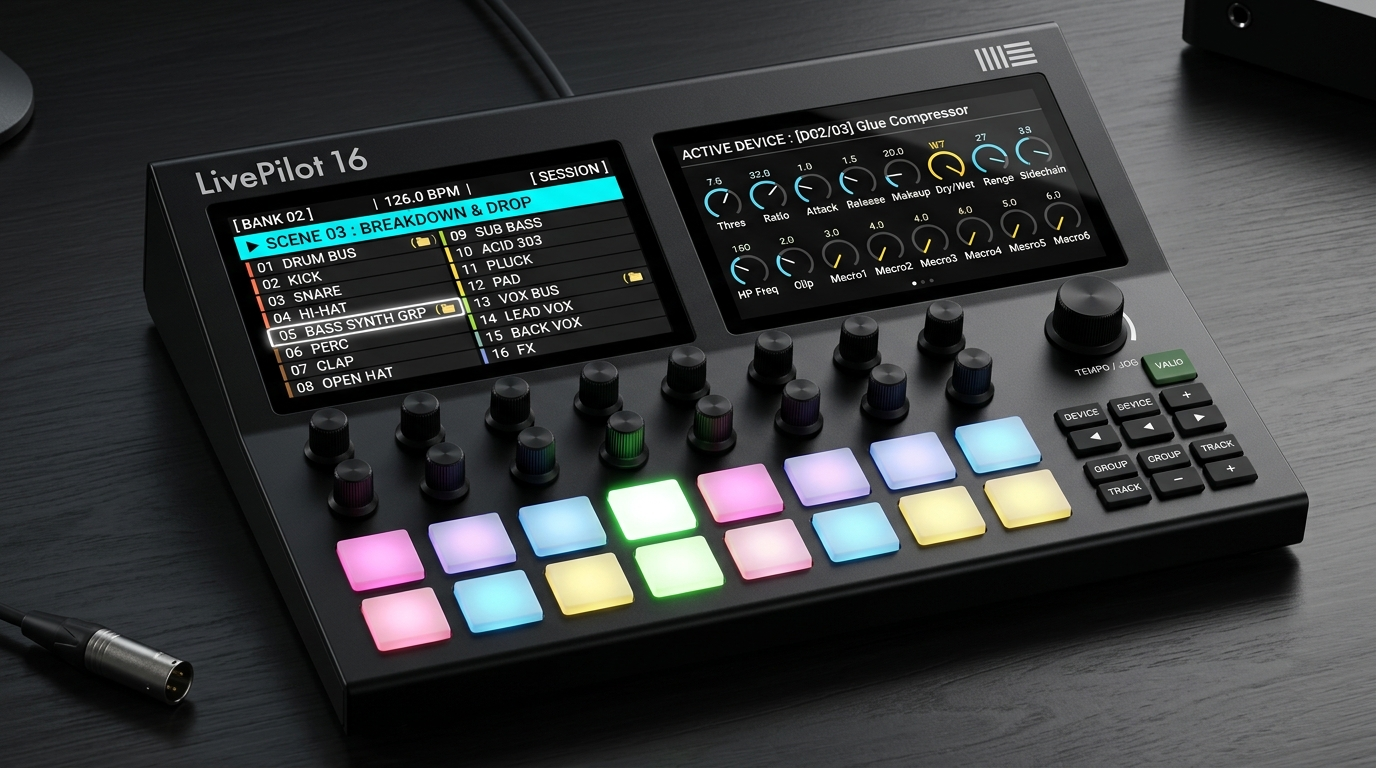
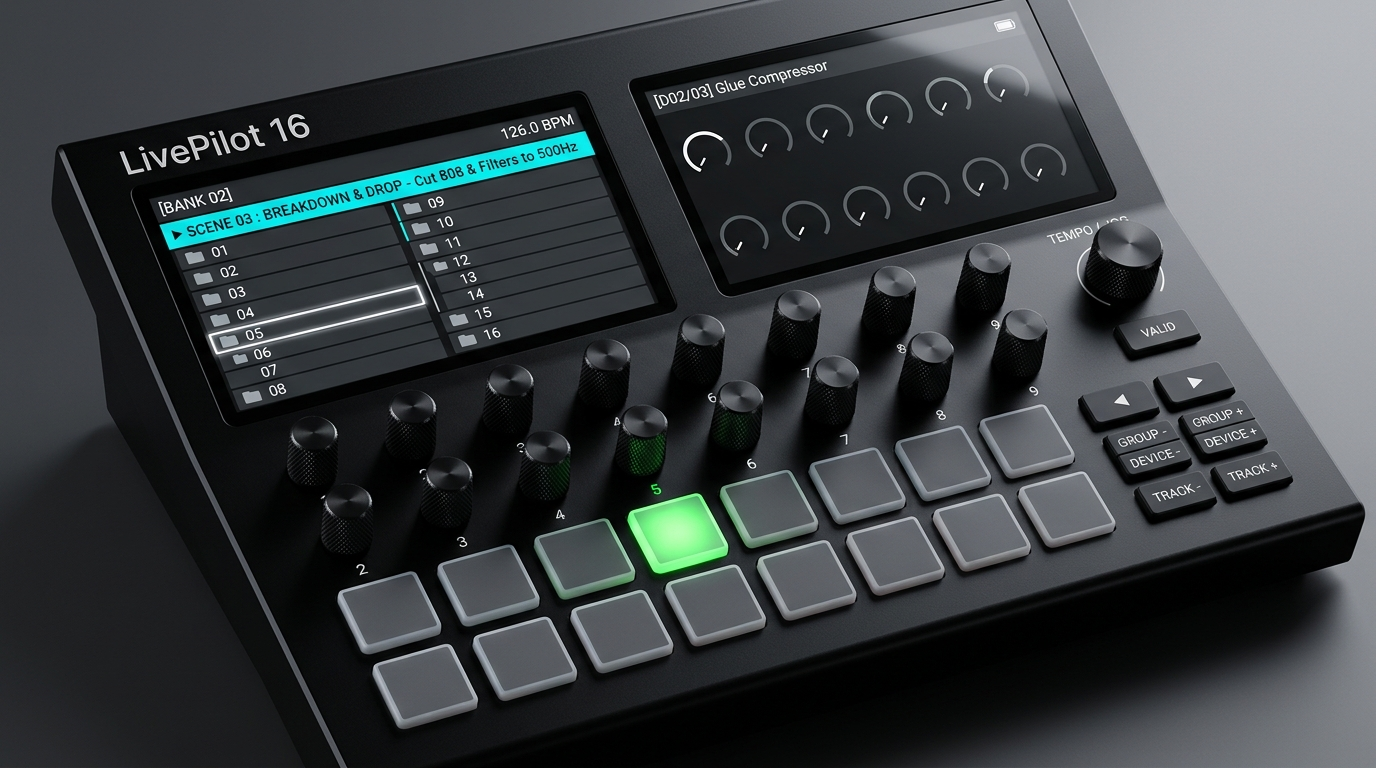
feat: refine nav buttons to 4x2 stack, remove redundant headers, add scene marquee ticker support

diff --git a/firmware/src/main.cpp b/firmware/src/main.cpp
@@ -33,7 +33,8 @@ struct LivePilotState {
     uint8_t currentSceneIndex = 0;
     bool isScenePlaying = false;
     float currentTempo = 120.0f;
-    char currentSceneName[32] = "Scene 1";
+    char currentSceneName[128] = "Scene 1"; // Nom étendu à 128 chars pour longues indications scéniques
+    uint16_t sceneScrollOffset = 0;         // Offset pour défilement horizontal fluide (Marquee Ticker)
     uint8_t currentSceneColor[3] = {60, 160, 240}; // Couleur exacte de la scène dans Ableton
     
     // Device actif & règle de navigation
@@ -68,11 +69,11 @@ void TaskCore0_IO(void *pvParameters) {
         // 3. Détection directe du 17ᵉ Encodeur Master (GPIO 40/41, Jog/Tempo) & clic poussoir (GPIO 39)
         // 4. Détection d'appui sur le bouton de validation [VALID] (GPIO 42, CC 56)
         // 5. Détection d'appui sur les 16 touches de pistes (CC 64..79)
-        // 6. Détection des 8 boutons de navigation :
-        //    - Flèches ◄ / ► (GPIO 6 / 7, CC 54 / 55) : navigation scènes / pages
-        //    - DEVICE - / DEVICE + (GPIO 1 / 2, CC 62 / 63, conditionné par state.deviceNavEnabled)
-        //    - GROUP - / GROUP + (GPIO 17 / 18, CC 58 / 59) : saut direct de groupe en groupe
-        //    - TRACK - / TRACK + (GPIO 15 / 16, CC 60 / 61) : pagination banques de 16 pistes
+        // 6. Détection des 8 boutons de navigation (Colonne 4×2 à droite) :
+        //    - Rangée 1 : Flèches ◄ / ► (GPIO 6 / 7, CC 54 / 55) : navigation scènes / pages
+        //    - Rangée 2 : GROUP - / GROUP + (GPIO 17 / 18, CC 58 / 59) : saut direct de groupe en groupe
+        //    - Rangée 3 : DEVICE - / DEVICE + (GPIO 1 / 2, CC 62 / 63, conditionné par state.deviceNavEnabled)
+        //    - Rangée 4 : TRACK - / TRACK + (GPIO 15 / 16, CC 60 / 61) : pagination banques de 16 pistes
         // 7. Émission immédiate des messages MIDI CC vers Ableton
         
         vTaskDelay(pdMS_TO_TICKS(1)); // Cycle 1ms pour latence imperceptible
@@ -92,8 +93,10 @@ void TaskCore1_UI(void *pvParameters) {
         //    - CMD_PARAM_DATA : maj des 16 valeurs/noms de paramètres
         
         // 2. Rendu Écran Gauche (Vue Mix & Session - CS GPIO 10, 480x320) :
-        //    - Ligne 1 (Y: 0..26) : [BANK 02] à gauche, 126.0 BPM en haut à droite !
-        //    - Ligne 2 (Y: 28..58) : BANDEAU SCÈNE PLEINE LARGEUR (Fond couleur Ableton, texte condensé "▶ SCÈNE 03 : BREAKDOWN & DROP")
+        //    - Ligne 1 (Y: 0..26) : [BANK 02] à gauche, 126.0 BPM à droite (pas de label superflu "SESSION")
+        //    - Ligne 2 (Y: 28..58) : BANDEAU SCÈNE PLEINE LARGEUR (Fond couleur Ableton) :
+        //      * Support des textes longs : Défilement horizontal automatique fluide (Marquee text ticker)
+        //        si le libellé dépasse la largeur d'écran, permettant de lire l'intégralité des annotations scéniques !
         //    - Zone Pistes (Y: 62..318) : 2 GRANDES COLONNES VERTICALES DE 8 PISTES (Lisibilité maximale 16-20 caractères) :
         //      * Colonne Gauche (X: 2..238) : Pistes 01 à 08 (correspondant 1:1 à la Rangée Haute des pads 1-8)
         //      * Colonne Droite (X: 242..478) : Pistes 09 à 16 (correspondant 1:1 à la Rangée Basse des pads 9-16)
@@ -101,7 +104,7 @@ void TaskCore1_UI(void *pvParameters) {
         //      * Badge [📁] pour les GROUPES et surbrillance blanche néon unique pour la piste active (ex: ▶05: BASS SYNTH GRP)
         
         // 3. Rendu Écran Droit (Vue Plugins & 16 Paramètres - CS GPIO 38) :
-        //    - Affichage du plugin actif et indicateur de pagination (> 1)
+        //    - En-tête : Affichage direct et épuré "[D02/03] Glue Compressor" (sans le texte redondant "ACTIVE DEVICE :")
         //    - Matrice 2x8 des 16 paramètres des encodeurs (jauges rotatives, valeurs, labels)
         //    - Si !state.trackHasAssignments : affiche l'état "NO ASSIGNMENT" en plein écran
         //    - Mise à jour ultra-rapide et indépendante lors de la manipulation des encodeurs
@@ -111,7 +114,7 @@ void TaskCore1_UI(void *pvParameters) {
         //    - Piste sélectionnée avec assignation -> Couleur Ableton à 100% + breathing
         //    - Piste non sélectionnée -> Couleur Ableton tamisée (30%)
         
-        // 5. Actualisation des 6 boutons de navigation (LEDs dédiées) :
+        // 5. Actualisation des 8 boutons de navigation :
         //    - DEVICE - / DEVICE + allumés si state.deviceNavEnabled, sinon éteints
         //    - GROUP - / GROUP + allumés si des groupes existent dans le projet
         

diff --git a/remote_script/LivePilot16/LivePilot16.py b/remote_script/LivePilot16/LivePilot16.py
@@ -507,7 +507,7 @@ class LivePilot16(ControlSurface):
             dev_name = "No Assignment"
             dev_idx = 0
         else:
-            dev_name = self._current_device.name[:16]
+            dev_name = self._current_device.name[:28]
             dev_idx = self._current_device_idx
             
         name_bytes = [ord(c) & 0x7F for c in dev_name]
@@ -578,8 +578,9 @@ class LivePilot16(ControlSurface):
         bpm_low = bpm_int & 0x7F
         bpm_dec = int((tempo - bpm_int) * 10) & 0x7F
 
-        # Nom de la scène
-        sc_name = (playing_scene.name if playing_scene and playing_scene.name else "Scene %d" % (playing_idx + 1))[:24]
+        # Nom de la scène (support étendu jusqu'à 96 caractères pour annotations scéniques)
+        raw_name = playing_scene.name if (playing_scene and playing_scene.name) else ("Scene %d" % (playing_idx + 1))
+        sc_name = raw_name[:96]
         name_bytes = [ord(c) & 0x7F for c in sc_name]
 
         # Payload SysEx : [CMD_SCENE_INFO, playing_idx, is_playing, bpm_high, bpm_low, bpm_dec, r, g, b, ...name..., 0x00, 0xF7]

diff --git a/CAHIER_DES_CHARGES.md b/CAHIER_DES_CHARGES.md
@@ -159,8 +159,8 @@ Le tableau ci-dessous détaille les outils gratuits nécessaires pour chaque bri
 > **Validation Ergonomique Officielle : La gestion des écrans est parfaite.**  
 > L'architecture d'affichage à double écran IPS 3.5" (surface combinée de 960×320 px) est officiellement validée et gravée dans le cahier des charges :
 > 1. **Écran Gauche (Mix & Session)** :
->    * **En-tête supérieur** : Numéro de Banque (`BANK 02`) et Tempo Ableton en direct (`126.0 BPM`).
->    * **Bandeau Scène Pleine Largeur** : Fond reprenant la couleur exacte attribuée à la scène dans Ableton, avec texte en typographie condensée haute lisibilité (`▶ SCÈNE 03 : BREAKDOWN & DROP`).
+>    * **En-tête supérieur épuré** : Numéro de Banque (`[BANK 02]`) à gauche et Tempo Ableton en direct (`126.0 BPM`) à droite (aucun mot superflu comme "SESSION").
+>    * **Bandeau Scène Pleine Largeur avec Défilement Fluide (Marquee Ticker)** : Fond reprenant la couleur exacte attribuée à la scène dans Ableton. Prise en charge des libellés longs et indications scéniques de sessions (jusqu'à 96-128 caractères) avec défilement horizontal automatique et fluide à 60 fps dès que le texte dépasse la largeur d'affichage (`▶ SCÈNE 03 : BREAKDOWN & DROP - Cut 808 & Filters to 500Hz`).
 >    * **2 Larges Colonnes Verticales de 8 Pistes** :
 >      * **Colonne Gauche (Pistes 01 à 08)** : reliée 1:1 à la Rangée Haute des touches (Pads 1 à 8).
 >      * **Colonne Droite (Pistes 09 à 16)** : reliée 1:1 à la Rangée Basse des touches (Pads 9 à 16).
@@ -168,7 +168,7 @@ Le tableau ci-dessous détaille les outils gratuits nécessaires pour chaque bri
 >      * Signalement immédiat des Groupes par l'icône dossier **`📁`** (ex: `01: 📁 DRUM BUS HEAVY`).
 >      * Surlignage étincelant blanc néon sur l'unique piste active (ex: `▶05: 📁 BASS SYNTH GRP`).
 > 2. **Écran Droit (Plugins & Sound Design)** :
->    * **En-tête** : Nom du Plugin actif (`Glue Compressor`).
+>    * **En-tête épuré** : Affichage direct du plugin actif `[D02/03] Glue Compressor` (le préfixe "ACTIVE DEVICE :" est retiré car il est sous-entendu, seuls les périphériques assignés étant affichés).
 >    * **Matrice stricte 2×8** : 16 potentiomètres virtuels circulaires alignés 1:1 au-dessus des 16 encodeurs rotatifs, avec affichage en direct des valeurs numériques et labels de paramètres.
 
 L'architecture à deux écrans couleur IPS séparés apporte la clarté visuelle ultime pour le live :
@@ -179,10 +179,10 @@ L'architecture à deux écrans couleur IPS séparés apporte la clarté visuelle
 ┌──────────────────────────────────────────────────┐  ┌──────────────────────────────────────────────────┐
 │           ÉCRAN GAUCHE : MIX & SESSION           │  │        ÉCRAN DROIT : PLUGINS & PARAMS (2x8)      │
 ├──────────────────────────────────────────────────┤  ├──────────────────────────────────────────────────┤
-│ [BANK 02]                   126.0 BPM            │  │ ACTIVE DEVICE : [D02/03] Glue Compressor         │
+│ [BANK 02]                            126.0 BPM   │  │ [D02/03] Glue Compressor                         │
 ├──────────────────────────────────────────────────┤  ├──────────────────────────────────────────────────┤
-│ ▶ SCÈNE 03 : BREAKDOWN & DROP                    │  │ RANGÉE HAUTE (Encodeurs 1 à 8) :                 │
-│ (Bandeau pleine largeur, COULEUR ABLETON)        │  │ [E01]  [E02]  [E03]  [E04]  [E05]  [E06]  [E07]  [E08] │
+│ ▶ SCÈNE 03 : BREAKDOWN & DROP - Cue Horns... ◄►  │  │ RANGÉE HAUTE (Encodeurs 1 à 8) :                 │
+│ (Bandeau couleur Ableton, Marquee Ticker fluide) │  │ [E01]  [E02]  [E03]  [E04]  [E05]  [E06]  [E07]  [E08] │
 ├────────────────────────┬─────────────────────────┤  │ Thres  Ratio  Attak  Relea  Makeu  Dry/W  Range  Sidec │
 │ COL. GAUCHE (Pads 1-8) │ COL. DROITE (Pads 9-16) │  │ -18dB   4:1    1ms   0.2s   +4dB   100%   -inf   On    │
 ├────────────────────────┼─────────────────────────┤  ├──────────────────────────────────────────────────┤
@@ -232,7 +232,7 @@ Le passage de banque s'opère selon 3 mécanismes complémentaires :
 
 ### 5.3. Agencement Strict & Ergonomie Aérée de l'Interface Physique
 L'interface de **LivePilot 16** a été calibrée pour offrir un confort maximal et éliminer toute fausse manipulation sur scène :
-1. **Double Écran IPS 3.5" (Surface combinée 960x320 px)** : Positionné au centre supérieur (Écran Gauche = Mix & Session 2x8 colonnes, Écran Droit = Plugins & Paramètres 2x8 potentiomètres virtuels).
+1. **Double Écran IPS 3.5" (Surface combinée 960x320 px)** : Positionné au centre supérieur (Écran Gauche = Mix & Session 2x8 colonnes avec défilement fluide des libellés longs, Écran Droit = Plugins & Paramètres 2x8 potentiomètres virtuels sans mention redondante).
 2. **16 Encodeurs Rotatifs de Paramètres (2 rangées de 8)** : Entraxe généreux de **32 mm** (au lieu des 24-26 mm habituels) pour permettre une prise en main des boutons avec les doigts sans heurter les potentiomètres voisins.
 3. **17ᵉ Encodeur Master (Jog / BPM Live / Menu)** : Situé en 9ᵉ colonne sur la rangée haute des encodeurs :
    * Rotation : variation en temps réel du tempo BPM ou navigation dans les scènes / paramètres.
@@ -240,14 +240,12 @@ L'interface de **LivePilot 16** a été calibrée pour offrir un confort maximal
 4. **Bouton Dédié de Validation `[VALID]`** : Situé en 9ᵉ colonne directement sous le 17ᵉ encodeur (rangée basse) :
    * Lancement direct de la scène sélectionnée ou confirmation d'action.
 5. **16 Boutons de Pistes RGB (2 rangées de 8 — STRICTEMENT 16 TOUCHES)** : Alignés 1:1 sous les encodeurs avec le même pas aéré de **32 mm** (Pistes 1 à 8 en rangée 1, Pistes 9 à 16 en rangée 2).
-6. **8 Boutons de Navigation Dédiés (Positionnement Scénique Réflexe)** :
-   * **Cluster Supérieur Haut Droit (Niveau Écran Plugins & Encodeurs)** :
-     * **Rangée Supérieure** : **`DEVICE -`** et **`DEVICE +`** pour la navigation intelligente entre plugins assignés sur la piste active (condition $> 1$).
-     * **Rangée Inférieure (directement sous DEV -/+)** : Flèches **`◄`** et **`►`** pour le défilement horizontal de pages ou sélection de scènes.
-   * **Cluster Inférieur Bas Droit (Niveau Pads de Pistes 2×2)** :
-     * **Rangée Haute (niveau Pistes 1 à 8)** : **`GROUP -`** et **`GROUP +`** pour sauter instantanément d'un bus/groupe à l'autre.
-     * **Rangée Basse (niveau Pistes 9 à 16)** : **`TRACK -`** et **`TRACK +`** pour faire défiler les banques de 16 pistes.
-7. **Identité Visuelle & Châssis** : Titre du produit **`LivePilot 16`** gravé au laser dans le coin supérieur droit. Châssis monobloc incliné à 15°.
+6. **8 Boutons de Navigation Dédiés (Colonne Droite 4×2 Limpide)** :
+   * **Rangée 1 (Haut)** : Flèches horizontales **`[ ◄ ]`** et **`[ ► ]`** (Navigation scènes & défilement).
+   * **Rangée 2 (En dessous)** : **`[ GROUP - ]`** et **`[ GROUP + ]`** (Saut direct de groupe en groupe).
+   * **Rangée 3 (En dessous)** : **`[ DEVICE - ]`** et **`[ DEVICE + ]`** (Navigation entre plugins assignés, condition $> 1$).
+   * **Rangée 4 (Bas)** : **`[ TRACK - ]`** et **`[ TRACK + ]`** (Défilement des banques de 16 pistes).
+7. **Identité Visuelle & Châssis** : Titre du produit **`LivePilot 16`** gravé au laser dans le coin supérieur gauche. Châssis monobloc incliné à 15°.
 
 ---
 

diff --git a/doc/CAHIER_DES_CHARGES.md b/doc/CAHIER_DES_CHARGES.md
@@ -159,8 +159,8 @@ Le tableau ci-dessous détaille les outils gratuits nécessaires pour chaque bri
 > **Validation Ergonomique Officielle : La gestion des écrans est parfaite.**  
 > L'architecture d'affichage à double écran IPS 3.5" (surface combinée de 960×320 px) est officiellement validée et gravée dans le cahier des charges :
 > 1. **Écran Gauche (Mix & Session)** :
->    * **En-tête supérieur** : Numéro de Banque (`BANK 02`) et Tempo Ableton en direct (`126.0 BPM`).
->    * **Bandeau Scène Pleine Largeur** : Fond reprenant la couleur exacte attribuée à la scène dans Ableton, avec texte en typographie condensée haute lisibilité (`▶ SCÈNE 03 : BREAKDOWN & DROP`).
+>    * **En-tête supérieur épuré** : Numéro de Banque (`[BANK 02]`) à gauche et Tempo Ableton en direct (`126.0 BPM`) à droite (aucun mot superflu comme "SESSION").
+>    * **Bandeau Scène Pleine Largeur avec Défilement Fluide (Marquee Ticker)** : Fond reprenant la couleur exacte attribuée à la scène dans Ableton. Prise en charge des libellés longs et indications scéniques de sessions (jusqu'à 96-128 caractères) avec défilement horizontal automatique et fluide à 60 fps dès que le texte dépasse la largeur d'affichage (`▶ SCÈNE 03 : BREAKDOWN & DROP - Cut 808 & Filters to 500Hz`).
 >    * **2 Larges Colonnes Verticales de 8 Pistes** :
 >      * **Colonne Gauche (Pistes 01 à 08)** : reliée 1:1 à la Rangée Haute des touches (Pads 1 à 8).
 >      * **Colonne Droite (Pistes 09 à 16)** : reliée 1:1 à la Rangée Basse des touches (Pads 9 à 16).
@@ -168,7 +168,7 @@ Le tableau ci-dessous détaille les outils gratuits nécessaires pour chaque bri
 >      * Signalement immédiat des Groupes par l'icône dossier **`📁`** (ex: `01: 📁 DRUM BUS HEAVY`).
 >      * Surlignage étincelant blanc néon sur l'unique piste active (ex: `▶05: 📁 BASS SYNTH GRP`).
 > 2. **Écran Droit (Plugins & Sound Design)** :
->    * **En-tête** : Nom du Plugin actif (`Glue Compressor`).
+>    * **En-tête épuré** : Affichage direct du plugin actif `[D02/03] Glue Compressor` (le préfixe "ACTIVE DEVICE :" est retiré car il est sous-entendu, seuls les périphériques assignés étant affichés).
 >    * **Matrice stricte 2×8** : 16 potentiomètres virtuels circulaires alignés 1:1 au-dessus des 16 encodeurs rotatifs, avec affichage en direct des valeurs numériques et labels de paramètres.
 
 L'architecture à deux écrans couleur IPS séparés apporte la clarté visuelle ultime pour le live :
@@ -179,10 +179,10 @@ L'architecture à deux écrans couleur IPS séparés apporte la clarté visuelle
 ┌──────────────────────────────────────────────────┐  ┌──────────────────────────────────────────────────┐
 │           ÉCRAN GAUCHE : MIX & SESSION           │  │        ÉCRAN DROIT : PLUGINS & PARAMS (2x8)      │
 ├──────────────────────────────────────────────────┤  ├──────────────────────────────────────────────────┤
-│ [BANK 02]                   126.0 BPM            │  │ ACTIVE DEVICE : [D02/03] Glue Compressor         │
+│ [BANK 02]                            126.0 BPM   │  │ [D02/03] Glue Compressor                         │
 ├──────────────────────────────────────────────────┤  ├──────────────────────────────────────────────────┤
-│ ▶ SCÈNE 03 : BREAKDOWN & DROP                    │  │ RANGÉE HAUTE (Encodeurs 1 à 8) :                 │
-│ (Bandeau pleine largeur, COULEUR ABLETON)        │  │ [E01]  [E02]  [E03]  [E04]  [E05]  [E06]  [E07]  [E08] │
+│ ▶ SCÈNE 03 : BREAKDOWN & DROP - Cue Horns... ◄►  │  │ RANGÉE HAUTE (Encodeurs 1 à 8) :                 │
+│ (Bandeau couleur Ableton, Marquee Ticker fluide) │  │ [E01]  [E02]  [E03]  [E04]  [E05]  [E06]  [E07]  [E08] │
 ├────────────────────────┬─────────────────────────┤  │ Thres  Ratio  Attak  Relea  Makeu  Dry/W  Range  Sidec │
 │ COL. GAUCHE (Pads 1-8) │ COL. DROITE (Pads 9-16) │  │ -18dB   4:1    1ms   0.2s   +4dB   100%   -inf   On    │
 ├────────────────────────┼─────────────────────────┤  ├──────────────────────────────────────────────────┤
@@ -232,7 +232,7 @@ Le passage de banque s'opère selon 3 mécanismes complémentaires :
 
 ### 5.3. Agencement Strict & Ergonomie Aérée de l'Interface Physique
 L'interface de **LivePilot 16** a été calibrée pour offrir un confort maximal et éliminer toute fausse manipulation sur scène :
-1. **Double Écran IPS 3.5" (Surface combinée 960x320 px)** : Positionné au centre supérieur (Écran Gauche = Mix & Session 2x8 colonnes, Écran Droit = Plugins & Paramètres 2x8 potentiomètres virtuels).
+1. **Double Écran IPS 3.5" (Surface combinée 960x320 px)** : Positionné au centre supérieur (Écran Gauche = Mix & Session 2x8 colonnes avec défilement fluide des libellés longs, Écran Droit = Plugins & Paramètres 2x8 potentiomètres virtuels sans mention redondante).
 2. **16 Encodeurs Rotatifs de Paramètres (2 rangées de 8)** : Entraxe généreux de **32 mm** (au lieu des 24-26 mm habituels) pour permettre une prise en main des boutons avec les doigts sans heurter les potentiomètres voisins.
 3. **17ᵉ Encodeur Master (Jog / BPM Live / Menu)** : Situé en 9ᵉ colonne sur la rangée haute des encodeurs :
    * Rotation : variation en temps réel du tempo BPM ou navigation dans les scènes / paramètres.
@@ -240,14 +240,12 @@ L'interface de **LivePilot 16** a été calibrée pour offrir un confort maximal
 4. **Bouton Dédié de Validation `[VALID]`** : Situé en 9ᵉ colonne directement sous le 17ᵉ encodeur (rangée basse) :
    * Lancement direct de la scène sélectionnée ou confirmation d'action.
 5. **16 Boutons de Pistes RGB (2 rangées de 8 — STRICTEMENT 16 TOUCHES)** : Alignés 1:1 sous les encodeurs avec le même pas aéré de **32 mm** (Pistes 1 à 8 en rangée 1, Pistes 9 à 16 en rangée 2).
-6. **8 Boutons de Navigation Dédiés (Positionnement Scénique Réflexe)** :
-   * **Cluster Supérieur Haut Droit (Niveau Écran Plugins & Encodeurs)** :
-     * **Rangée Supérieure** : **`DEVICE -`** et **`DEVICE +`** pour la navigation intelligente entre plugins assignés sur la piste active (condition $> 1$).
-     * **Rangée Inférieure (directement sous DEV -/+)** : Flèches **`◄`** et **`►`** pour le défilement horizontal de pages ou sélection de scènes.
-   * **Cluster Inférieur Bas Droit (Niveau Pads de Pistes 2×2)** :
-     * **Rangée Haute (niveau Pistes 1 à 8)** : **`GROUP -`** et **`GROUP +`** pour sauter instantanément d'un bus/groupe à l'autre.
-     * **Rangée Basse (niveau Pistes 9 à 16)** : **`TRACK -`** et **`TRACK +`** pour faire défiler les banques de 16 pistes.
-7. **Identité Visuelle & Châssis** : Titre du produit **`LivePilot 16`** gravé au laser dans le coin supérieur droit. Châssis monobloc incliné à 15°.
+6. **8 Boutons de Navigation Dédiés (Colonne Droite 4×2 Limpide)** :
+   * **Rangée 1 (Haut)** : Flèches horizontales **`[ ◄ ]`** et **`[ ► ]`** (Navigation scènes & défilement).
+   * **Rangée 2 (En dessous)** : **`[ GROUP - ]`** et **`[ GROUP + ]`** (Saut direct de groupe en groupe).
+   * **Rangée 3 (En dessous)** : **`[ DEVICE - ]`** et **`[ DEVICE + ]`** (Navigation entre plugins assignés, condition $> 1$).
+   * **Rangée 4 (Bas)** : **`[ TRACK - ]`** et **`[ TRACK + ]`** (Défilement des banques de 16 pistes).
+7. **Identité Visuelle & Châssis** : Titre du produit **`LivePilot 16`** gravé au laser dans le coin supérieur gauche. Châssis monobloc incliné à 15°.
 
 ---
 

diff --git a/hardware/WIRING_GUIDE.md b/hardware/WIRING_GUIDE.md
@@ -196,30 +196,30 @@ Pour garantir une réactivité instantanée à zéro latence et un temps de rép
 |---|---|---|---|
 | **`[VALID]`** | **GPIO 42** | `GND` | Directement sous le 17ᵉ encodeur : Lancement de scène sélectionnée / Validation |
 
-### 4.3. Les 8 Boutons de Navigation Dédiés
+### 4.3. Les 8 Boutons de Navigation Dédiés (Colonne 4×2 à Droite)
+
+Les 8 touches sont agencées en une colonne droite claire et intuitive de **4 rangées de 2 boutons** :
 
 | Touche de Navigation | Broche ESP32-S3 | Autre Côté du Switch | Emplacement Physique & Rôle |
 |---|---|---|---|
-| **`DEVICE -`** | **GPIO 1** | `GND` | **Haut Droit (Rangée du haut, gauche)** : Plugin assigné précédent (si $> 1$) |
-| **`DEVICE +`** | **GPIO 2** | `GND` | **Haut Droit (Rangée du haut, droite)** : Plugin assigné suivant (si $> 1$) |
-| **`◄` (Flèche Gauche)** | **GPIO 6** | `GND` | **Haut Droit (Directement sous DEV-)** : Scène précédente / Page précédente |
-| **`►` (Flèche Droite)**| **GPIO 7** | `GND` | **Haut Droit (Directement sous DEV+)** : Scène suivante / Page suivante |
-| **`GROUP -`** | **GPIO 17** | `GND` | **Bas Droit (Niveau Pistes 1-8, gauche)** : Groupe précédent |
-| **`GROUP +`** | **GPIO 18** | `GND` | **Bas Droit (Niveau Pistes 1-8, droite)** : Groupe suivant |
-| **`TRACK -`** | **GPIO 15** | `GND` | **Bas Droit (Niveau Pistes 9-16, gauche)** : Banque précédente (-16) |
-| **`TRACK +`** | **GPIO 16** | `GND` | **Bas Droit (Niveau Pistes 9-16, droite)** : Banque suivante (+16) |
+| **`◄` (Flèche Gauche)** | **GPIO 6** | `GND` | **Rangée 1 (Haut, gauche)** : Scène précédente / Page précédente |
+| **`►` (Flèche Droite)**| **GPIO 7** | `GND` | **Rangée 1 (Haut, droite)** : Scène suivante / Page suivante |
+| **`GROUP -`** | **GPIO 17** | `GND` | **Rangée 2 (En dessous, gauche)** : Groupe précédent |
+| **`GROUP +`** | **GPIO 18** | `GND` | **Rangée 2 (En dessous, droite)** : Groupe suivant |
+| **`DEVICE -`** | **GPIO 1** | `GND` | **Rangée 3 (En dessous, gauche)** : Plugin assigné précédent (si $> 1$) |
+| **`DEVICE +`** | **GPIO 2** | `GND` | **Rangée 3 (En dessous, droite)** : Plugin assigné suivant (si $> 1$) |
+| **`TRACK -`** | **GPIO 15** | `GND` | **Rangée 4 (Bas, gauche)** : Banque précédente (-16) |
+| **`TRACK +`** | **GPIO 16** | `GND` | **Rangée 4 (Bas, droite)** : Banque suivante (+16) |
 
 > [!TIP]
 > **Ergonomie Réflexe Immédiate :**  
-> * **En haut à droite (Face à l'Écran Plugins & Paramètres) :**  
->   * Rangée du haut : `DEVICE -` et `DEVICE +` pour feuilleter les plugins de la piste active.
->   * Juste au-dessous : Flèches `◄` et `►` pour parcourir les scènes ou les pages d'écran.
-> * **Colonne 9 (À droite des encodeurs) :**  
+> * **Rangée 1 (Haut)** : Flèches horizontales `◄` et `►` pour naviguer dans les scènes / pages d'écran.
+> * **Rangée 2** : `GROUP -` et `GROUP +` pour sauter directement d'un bus/groupe à l'autre.
+> * **Rangée 3** : `DEVICE -` et `DEVICE +` pour feuilleter les plugins de la piste active.
+> * **Rangée 4 (Bas)** : `TRACK -` et `TRACK +` pour faire défiler les banques de 16 pistes.
+> * **Colonne 9 (au niveau des encodeurs)** :
 >   * En haut : Le 17ᵉ Encodeur Master cranté pour ajuster le tempo BPM en direct.
->   * En bas : Le bouton `[VALID]` pour envoyer instantanément la scène sélectionnée.
-> * **En bas à droite (Face aux 16 Touches de Pistes) :**  
->   * Rangée haute : `GROUP -` et `GROUP +` pour sauter instantanément d'un bus/groupe à l'autre.
->   * Rangée basse : `TRACK -` et `TRACK +` pour faire défiler les banques de 16 pistes.
+>   * En bas : Le bouton `[VALID]` pour déclencher la scène sélectionnée.
 
 *Chaque entrée utilise la résistance de rappel au 3.3V interne de l'ESP32-S3 (`pinMode(pin, INPUT_PULLUP)`). Aucun composant externe n'est requis.*
 
